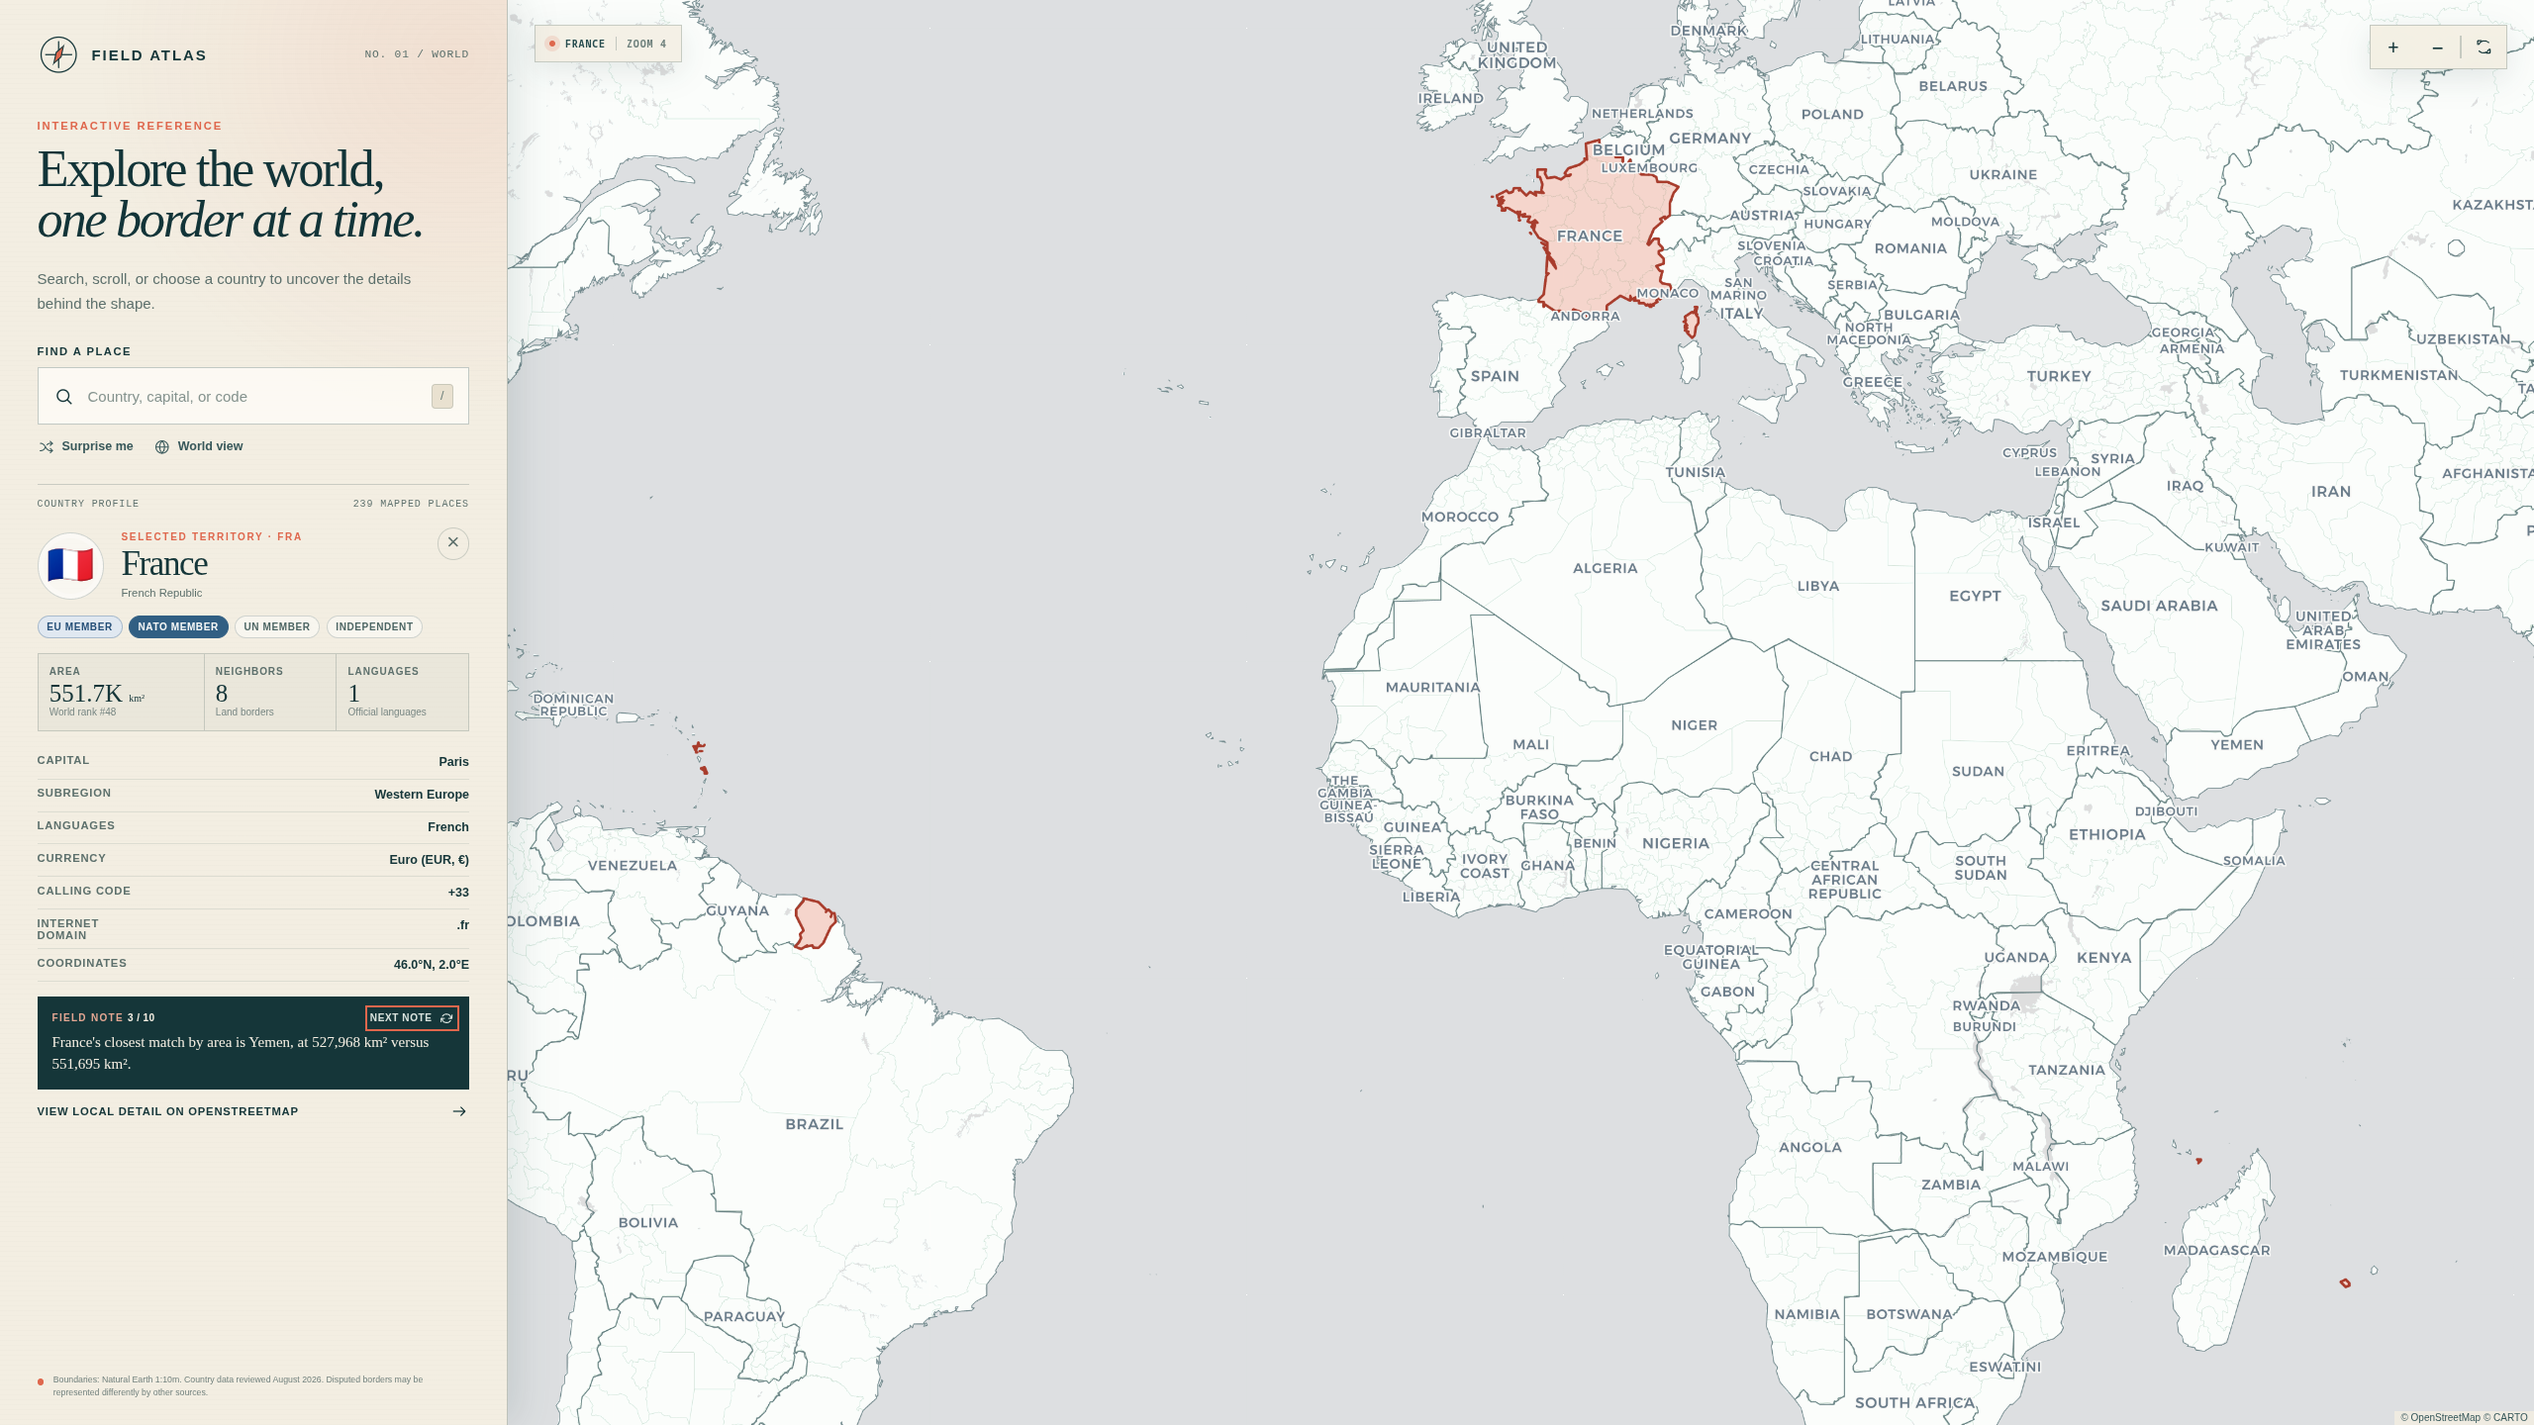
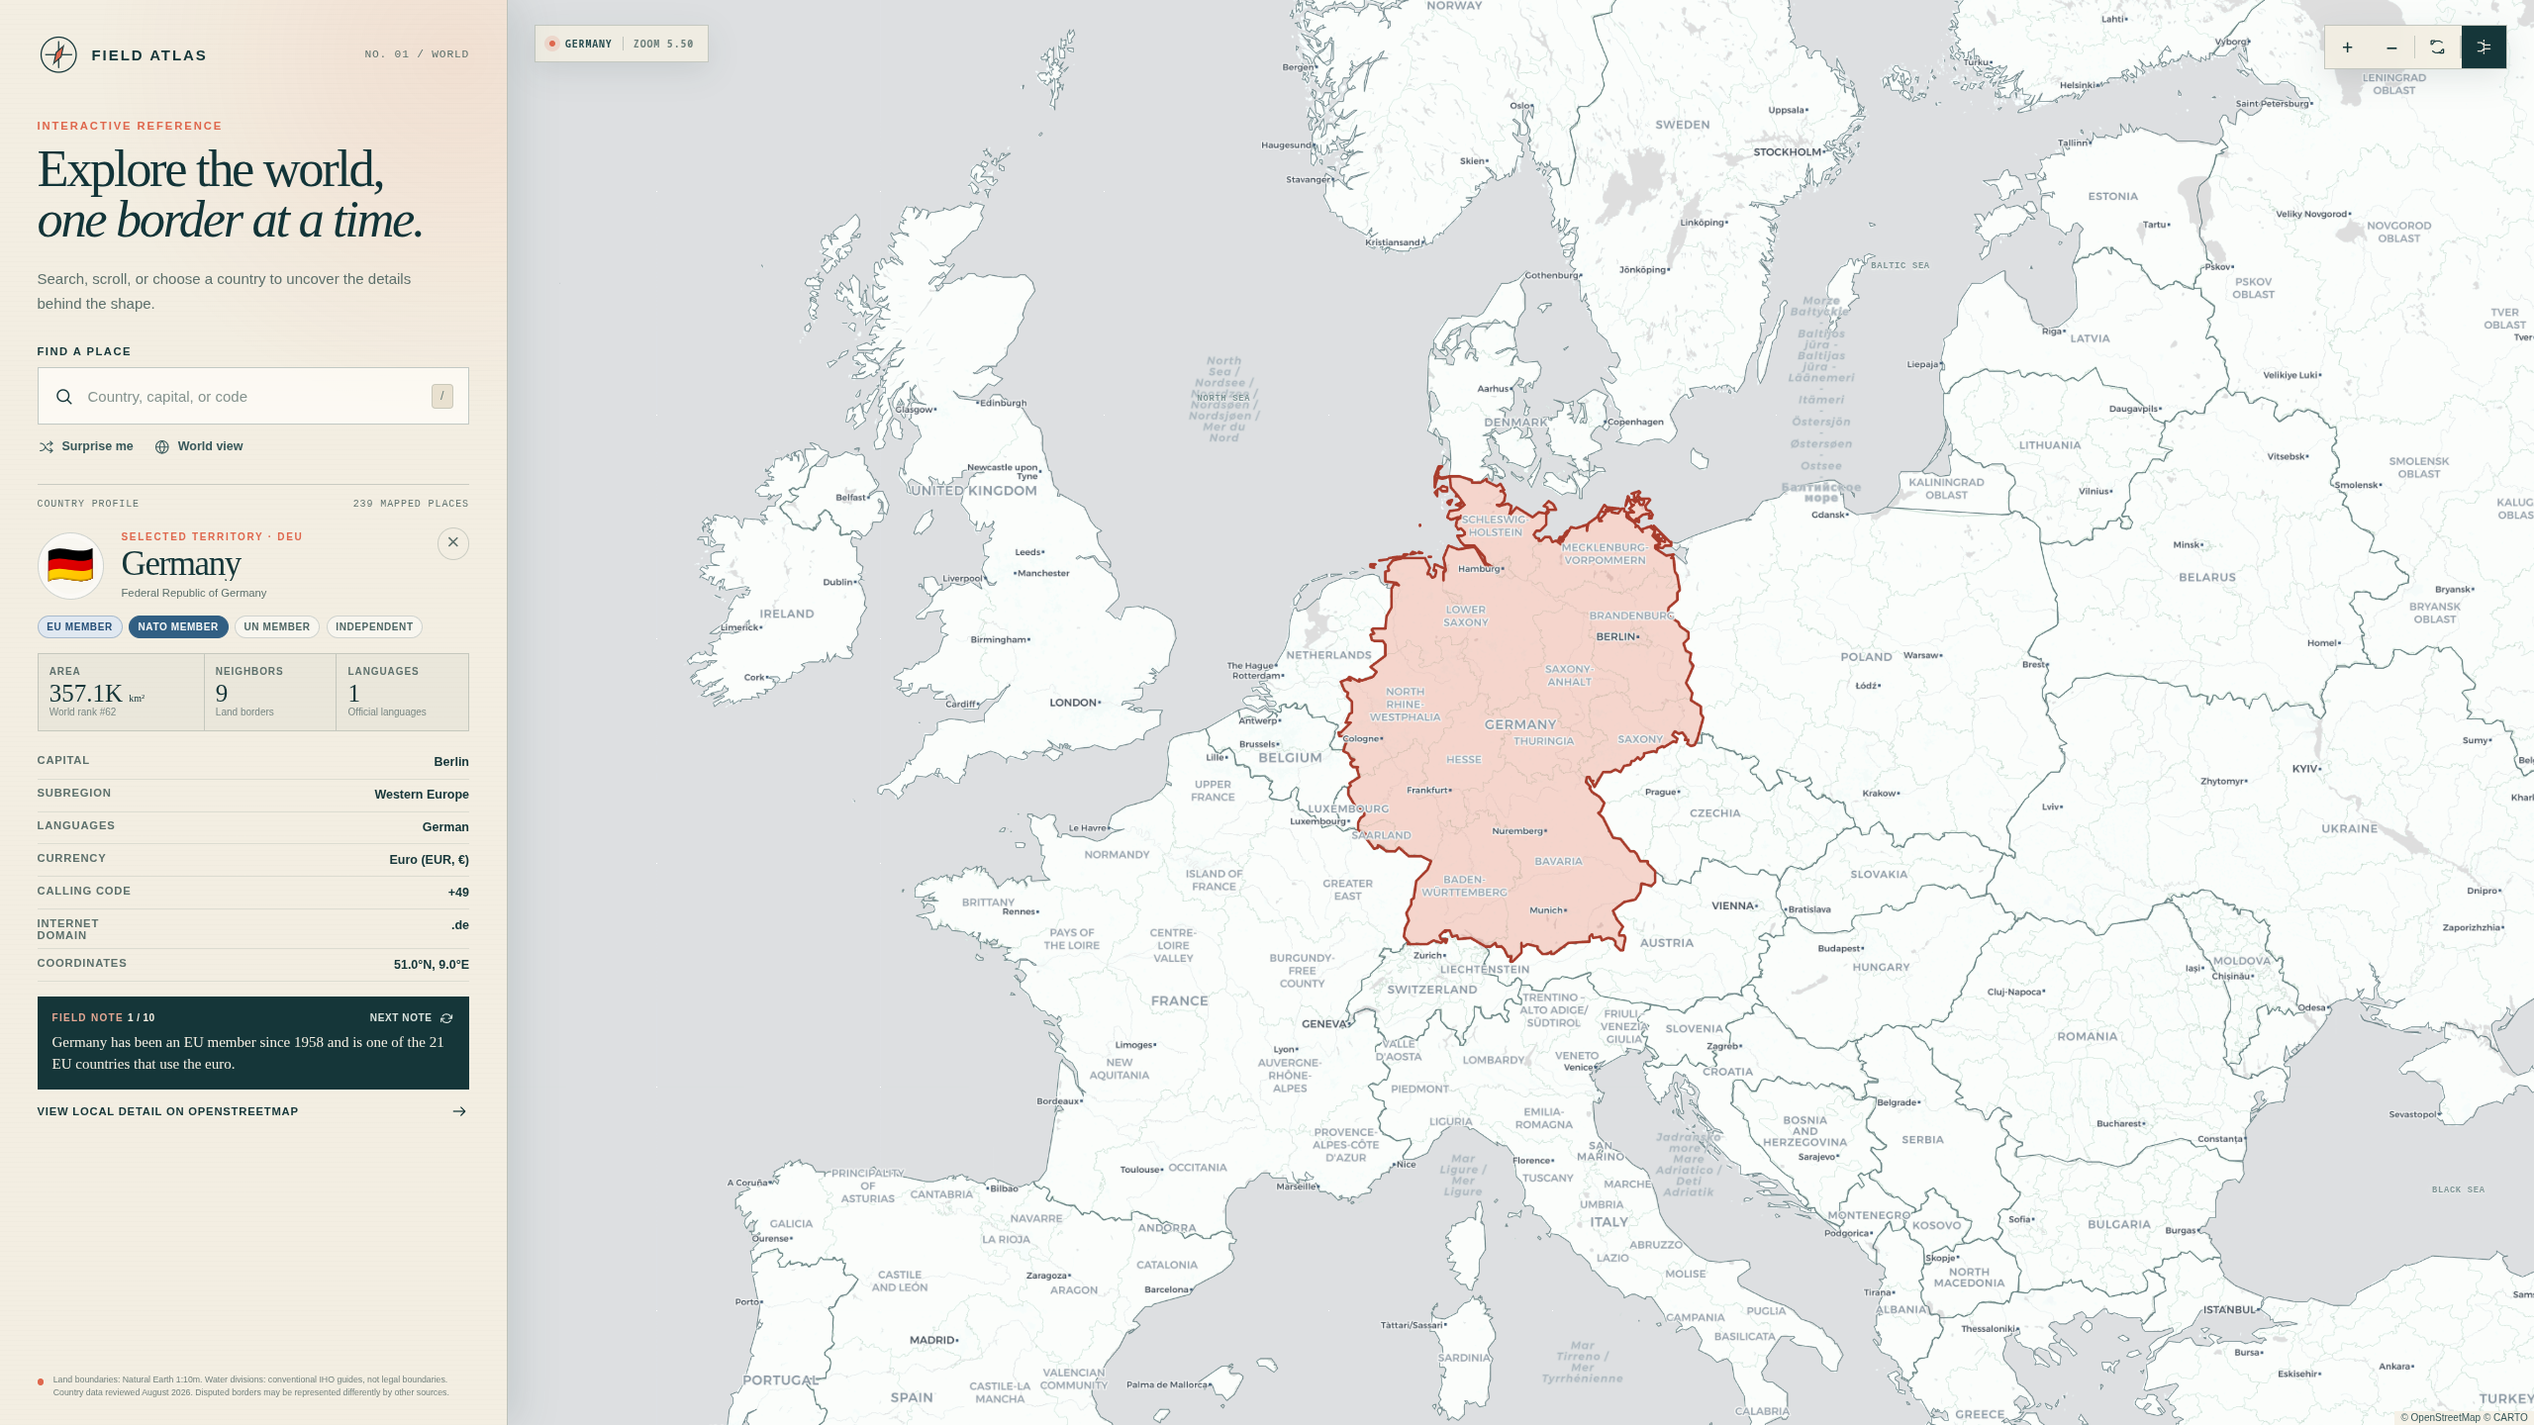
ocean borders

diff --git a/src/water-data.js b/src/water-data.js
@@ -1,0 +1,148 @@
+// Major divisions follow conventional IHO limits in Leaflet [latitude, longitude] order.
+// They are visual naming guides, not legal or sharply physical boundaries.
+export const oceanBoundaryLines = [
+  {
+    name: 'Southern Ocean northern limit',
+    coordinates: [
+      [-60, -180],
+      [-60, -120],
+      [-60, -67.2667],
+      [-60, 0],
+      [-60, 20],
+      [-60, 90],
+      [-60, 146.9167],
+      [-60, 180],
+    ],
+  },
+  {
+    name: 'Atlantic and Indian Oceans',
+    coordinates: [
+      [-34.8332, 20],
+      [-60, 20],
+    ],
+  },
+  {
+    name: 'Indian and Pacific Oceans',
+    coordinates: [
+      [-43.6436, 146.9167],
+      [-60, 146.9167],
+    ],
+  },
+  {
+    name: 'Atlantic and Pacific Oceans',
+    coordinates: [
+      [-55.98, -67.2667],
+      [-60, -67.2667],
+    ],
+  },
+  {
+    name: 'Arctic and Pacific Oceans',
+    coordinates: [
+      [66.5629, -171.0806],
+      [66.5629, -164.5371],
+    ],
+  },
+  {
+    name: 'Arctic and Atlantic Oceans at Davis Strait',
+    coordinates: [
+      [66, -61],
+      [66, -53.2],
+    ],
+  },
+  {
+    name: 'Arctic and Atlantic Oceans at Denmark Strait',
+    coordinates: [
+      [68.2286, -29.4294],
+      [66.4336, -23.1343],
+    ],
+  },
+  {
+    name: 'Arctic and Atlantic Oceans north of Iceland',
+    coordinates: [
+      [65.0834, -13.5007],
+      [70.8254, -9.0319],
+    ],
+  },
+  {
+    name: 'Arctic and Atlantic Oceans at Fram Strait',
+    coordinates: [
+      [71.1586, -8.0065],
+      [76.5164, 16.4888],
+    ],
+  },
+  {
+    name: 'Arctic and Atlantic Oceans at the Barents gateway',
+    coordinates: [
+      [76.5645, 16.7211],
+      [74.5195, 19.0922],
+    ],
+  },
+  {
+    name: 'Arctic and Atlantic Oceans north of Norway',
+    coordinates: [
+      [74.3417, 19.0688],
+      [71.1725, 25.7768],
+    ],
+  },
+];
+
+export const waterLabels = [
+  { name: 'North Pacific Ocean', position: [27, -150], kind: 'ocean' },
+  { name: 'North Pacific Ocean', position: [25, 164], kind: 'ocean' },
+  { name: 'South Pacific Ocean', position: [-25, -130], kind: 'ocean' },
+  { name: 'South Pacific Ocean', position: [-24, 169], kind: 'ocean' },
+  { name: 'North Atlantic Ocean', position: [29, -39], kind: 'ocean' },
+  { name: 'South Atlantic Ocean', position: [-27, -17], kind: 'ocean' },
+  { name: 'Indian Ocean', position: [-24, 80], kind: 'ocean' },
+  { name: 'Arctic Ocean', position: [79, 4], kind: 'ocean' },
+  { name: 'Southern Ocean', position: [-64, -112], kind: 'ocean' },
+  { name: 'Southern Ocean', position: [-64, 22], kind: 'ocean' },
+  { name: 'Southern Ocean', position: [-64, 132], kind: 'ocean' },
+
+  { name: 'Caribbean Sea', position: [15.2, -74.7], kind: 'sea', minZoom: 3.75 },
+  { name: 'Gulf of Mexico', position: [24.5, -90], kind: 'sea', minZoom: 3.75 },
+  { name: 'Sargasso Sea', position: [29, -55], kind: 'sea', minZoom: 4 },
+  { name: 'Labrador Sea', position: [57, -52], kind: 'sea', minZoom: 4 },
+  { name: 'Hudson Bay', position: [59.5, -85], kind: 'sea', minZoom: 4 },
+  { name: 'Greenland Sea', position: [74, -8], kind: 'sea', minZoom: 4 },
+  { name: 'Norwegian Sea', position: [68, 2], kind: 'sea', minZoom: 4 },
+  { name: 'North Sea', position: [56, 3], kind: 'sea', minZoom: 4.75 },
+  { name: 'Baltic Sea', position: [57.8, 20], kind: 'sea', minZoom: 4.75 },
+  { name: 'Mediterranean Sea', position: [35.5, 18], kind: 'sea', minZoom: 3.75 },
+  { name: 'Black Sea', position: [43.2, 34], kind: 'sea', minZoom: 4.5 },
+  { name: 'Scotia Sea', position: [-57, -41], kind: 'sea', minZoom: 4 },
+
+  { name: 'Arabian Sea', position: [14, 64], kind: 'sea', minZoom: 3.75 },
+  { name: 'Bay of Bengal', position: [14, 88], kind: 'sea', minZoom: 3.75 },
+  { name: 'Red Sea', position: [20, 38.5], kind: 'sea', minZoom: 4.5 },
+  { name: 'Persian Gulf', position: [26.5, 52.5], kind: 'sea', minZoom: 5 },
+  { name: 'Gulf of Aden', position: [12, 48], kind: 'sea', minZoom: 4.75 },
+  { name: 'Andaman Sea', position: [10, 96], kind: 'sea', minZoom: 4.5 },
+  { name: 'Mozambique Channel', position: [-18, 42], kind: 'sea', minZoom: 4 },
+  { name: 'Great Australian Bight', position: [-34, 130], kind: 'sea', minZoom: 4 },
+
+  { name: 'Bering Sea', position: [58, -170], kind: 'sea', minZoom: 3.75 },
+  { name: 'Sea of Okhotsk', position: [53, 149], kind: 'sea', minZoom: 4 },
+  { name: 'Sea of Japan', position: [40, 135], kind: 'sea', minZoom: 4.5 },
+  { name: 'Yellow Sea', position: [35, 123], kind: 'sea', minZoom: 5 },
+  { name: 'East China Sea', position: [28, 125], kind: 'sea', minZoom: 4.75 },
+  { name: 'South China Sea', position: [13, 114], kind: 'sea', minZoom: 4 },
+  { name: 'Philippine Sea', position: [20, 132], kind: 'sea', minZoom: 4 },
+  { name: 'Java Sea', position: [-5, 112], kind: 'sea', minZoom: 5 },
+  { name: 'Banda Sea', position: [-5, 128], kind: 'sea', minZoom: 5 },
+  { name: 'Arafura Sea', position: [-10, 136], kind: 'sea', minZoom: 4.75 },
+  { name: 'Timor Sea', position: [-12, 127], kind: 'sea', minZoom: 4.75 },
+  { name: 'Coral Sea', position: [-18, 154], kind: 'sea', minZoom: 3.75 },
+  { name: 'Tasman Sea', position: [-39, 160], kind: 'sea', minZoom: 3.75 },
+
+  { name: 'Barents Sea', position: [75, 42], kind: 'sea', minZoom: 4 },
+  { name: 'Kara Sea', position: [75, 70], kind: 'sea', minZoom: 4 },
+  { name: 'Laptev Sea', position: [75, 125], kind: 'sea', minZoom: 4 },
+  { name: 'East Siberian Sea', position: [72, 160], kind: 'sea', minZoom: 4 },
+  { name: 'Chukchi Sea', position: [69, -171], kind: 'sea', minZoom: 4 },
+  { name: 'Beaufort Sea', position: [72, -142], kind: 'sea', minZoom: 4 },
+
+  { name: 'Weddell Sea', position: [-72, -40], kind: 'sea', minZoom: 4 },
+  { name: 'Ross Sea', position: [-74, 175], kind: 'sea', minZoom: 4 },
+  { name: 'Amundsen Sea', position: [-72, -110], kind: 'sea', minZoom: 4 },
+];

diff --git a/src/main.js b/src/main.js
@@ -4,6 +4,7 @@ import splitGeoJSON from 'geojson-antimeridian-cut';
 import { feature as toGeoJSON } from 'topojson-client';
 import worldAtlas from 'world-atlas/countries-10m.json';
 import { countries, formatCallingCode, getCountryFacts } from './country-data.js';
+import { oceanBoundaryLines, waterLabels } from './water-data.js';
 import './style.css';
 
 const mapElement = document.querySelector('#map');
@@ -16,6 +17,7 @@ const randomButton = document.querySelector('#random-country');
 const countryCount = document.querySelector('#country-count');
 const mapStatus = document.querySelector('#map-status');
 const zoomStatus = document.querySelector('#zoom-status');
+const waterBoundariesButton = document.querySelector('#toggle-water-boundaries');
 
 const numberFormat = new Intl.NumberFormat('en-US');
 const compactNumberFormat = new Intl.NumberFormat('en-US', {
@@ -94,6 +96,14 @@ map.createPane('labels');
 map.getPane('labels').style.zIndex = 450;
 map.getPane('labels').style.pointerEvents = 'none';
 
+map.createPane('waterBoundaries');
+map.getPane('waterBoundaries').style.zIndex = 390;
+map.getPane('waterBoundaries').style.pointerEvents = 'none';
+
+map.createPane('waterLabels');
+map.getPane('waterLabels').style.zIndex = 460;
+map.getPane('waterLabels').style.pointerEvents = 'none';
+
 L.tileLayer('https://{s}.basemaps.cartocdn.com/light_nolabels/{z}/{x}/{y}{r}.png', {
   subdomains: 'abcd',
   maxZoom: 20,
@@ -122,6 +132,63 @@ L.polyline(
     interactive: false,
   },
 ).addTo(map);
+
+const waterBoundaryLayer = L.layerGroup(
+  oceanBoundaryLines.map(({ coordinates }) =>
+    L.polyline(coordinates, {
+      pane: 'waterBoundaries',
+      color: '#496f74',
+      weight: 1,
+      opacity: 0.3,
+      dashArray: '2 6',
+      interactive: false,
+    }),
+  ),
+);
+
+const setWaterBoundariesVisible = (isVisible) => {
+  if (isVisible) {
+    waterBoundaryLayer.addTo(map);
+  } else {
+    waterBoundaryLayer.removeFrom(map);
+  }
+
+  waterBoundariesButton.setAttribute('aria-pressed', String(isVisible));
+  waterBoundariesButton.setAttribute(
+    'aria-label',
+    `${isVisible ? 'Hide' : 'Show'} ocean boundary guides`,
+  );
+  waterBoundariesButton.title = `${isVisible ? 'Hide' : 'Show'} ocean boundary guides`;
+};
+
+const waterLabelMarkers = waterLabels.map(({ name, position, kind, minZoom = 1 }) => ({
+  minZoom,
+  marker: L.marker(position, {
+    pane: 'waterLabels',
+    interactive: false,
+    keyboard: false,
+    icon: L.divIcon({
+      className: `water-label water-label--${kind}`,
+      html: `<span>${name}</span>`,
+      iconSize: [0, 0],
+    }),
+  }),
+}));
+
+const updateWaterLabels = () => {
+  const zoom = map.getZoom();
+
+  for (const { marker, minZoom } of waterLabelMarkers) {
+    const shouldShow = zoom >= minZoom;
+    const isVisible = map.hasLayer(marker);
+
+    if (shouldShow && !isVisible) marker.addTo(map);
+    if (!shouldShow && isVisible) marker.removeFrom(map);
+  }
+};
+
+setWaterBoundariesVisible(true);
+updateWaterLabels();
 
 const worldBounds = L.latLngBounds([
   [-72, -177],
@@ -618,10 +685,14 @@ document.querySelector('#show-world').addEventListener('click', () => {
 document.querySelector('#reset-map').addEventListener('click', fitWorld);
 document.querySelector('#zoom-in').addEventListener('click', () => map.zoomIn());
 document.querySelector('#zoom-out').addEventListener('click', () => map.zoomOut());
+waterBoundariesButton.addEventListener('click', () => {
+  setWaterBoundariesVisible(!map.hasLayer(waterBoundaryLayer));
+});
 
 map.on('zoom moveend', () => {
   zoomStatus.textContent = `Zoom ${map.getZoom().toFixed(2).replace(/\.00$/, '')}`;
 });
+map.on('zoomend', updateWaterLabels);
 
 window.addEventListener('resize', () => {
   map.invalidateSize({ pan: false });

diff --git a/src/style.css b/src/style.css
@@ -779,6 +779,42 @@ a:focus-visible {
   border-top-color: #153639 !important;
 }
 
+.water-label {
+  background: transparent;
+  border: 0;
+  pointer-events: none;
+}
+
+.water-label span {
+  position: absolute;
+  top: 0;
+  left: 0;
+  color: rgba(38, 76, 80, 0.5);
+  text-align: center;
+  text-shadow:
+    0 1px 0 rgba(238, 242, 239, 0.9),
+    0 0 5px rgba(238, 242, 239, 0.96);
+  text-transform: uppercase;
+  transform: translate(-50%, -50%);
+  white-space: nowrap;
+}
+
+.water-label--ocean span {
+  font-family: "Iowan Old Style", "Palatino Linotype", Palatino, Georgia, serif;
+  font-size: 10px;
+  font-style: italic;
+  font-weight: 600;
+  letter-spacing: 0.13em;
+}
+
+.water-label--sea span {
+  color: rgba(46, 82, 85, 0.57);
+  font-family: "SFMono-Regular", Consolas, "Liberation Mono", monospace;
+  font-size: 7px;
+  font-weight: 650;
+  letter-spacing: 0.08em;
+}
+
 .map-caption {
   position: absolute;
   z-index: 500;
@@ -825,7 +861,7 @@ a:focus-visible {
   top: 20px;
   right: 22px;
   display: grid;
-  grid-template-columns: 36px 36px 1px 36px;
+  grid-template-columns: 36px 36px 1px 36px 1px 36px;
   height: 36px;
   overflow: hidden;
   background: rgba(243, 238, 226, 0.9);
@@ -851,6 +887,11 @@ a:focus-visible {
   background: var(--ink);
 }
 
+.map-tools button[aria-pressed="true"] {
+  color: #fff7e9;
+  background: var(--ink);
+}
+
 .map-tools > span {
   width: 1px;
   height: 18px;
@@ -865,6 +906,10 @@ a:focus-visible {
   stroke-linecap: round;
   stroke-linejoin: round;
   stroke-width: 1.5;
+}
+
+.map-tools .map-tools__guide-line {
+  stroke-dasharray: 2 2;
 }
 
 .map-loading {
@@ -1087,7 +1132,7 @@ a:focus-visible {
   }
 
   .map-caption {
-    max-width: calc(100vw - 170px);
+    max-width: calc(100vw - 208px);
   }
 
   #map-status {

diff --git a/index.html b/index.html
@@ -101,8 +101,9 @@
         <footer class="source-note">
           <span class="source-note__dot" aria-hidden="true"></span>
           <p>
-            Boundaries: Natural Earth 1:10m. Country data reviewed August 2026.
-            Disputed borders may be represented differently by other sources.
+            Land boundaries: Natural Earth 1:10m. Water divisions: conventional IHO guides,
+            not legal boundaries. Country data reviewed August 2026. Disputed borders may be
+            represented differently by other sources.
           </p>
         </footer>
       </aside>
@@ -125,6 +126,19 @@
             <svg viewBox="0 0 24 24" aria-hidden="true">
               <path d="M4 9V4h5M20 15v5h-5" />
               <path d="M5.8 17.5a8 8 0 0 0 13-2.5M18.2 6.5A8 8 0 0 0 5.2 9" />
+            </svg>
+          </button>
+          <span aria-hidden="true"></span>
+          <button
+            id="toggle-water-boundaries"
+            type="button"
+            aria-label="Hide ocean boundary guides"
+            aria-pressed="true"
+            title="Hide ocean boundary guides"
+          >
+            <svg viewBox="0 0 24 24" aria-hidden="true">
+              <path d="M4 6.5h5l3 3h8M4 17.5h5l3-3h8" />
+              <path class="map-tools__guide-line" d="M12 3v18" />
             </svg>
           </button>
         </div>
